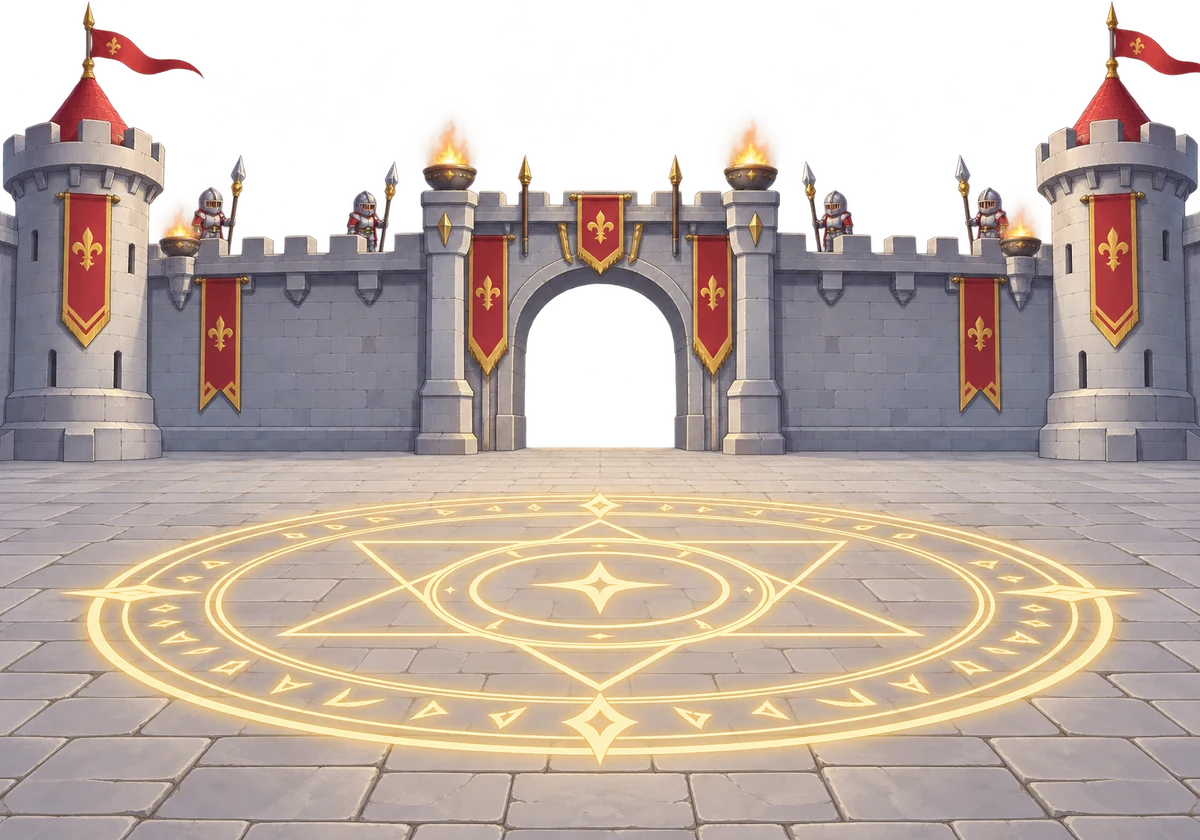
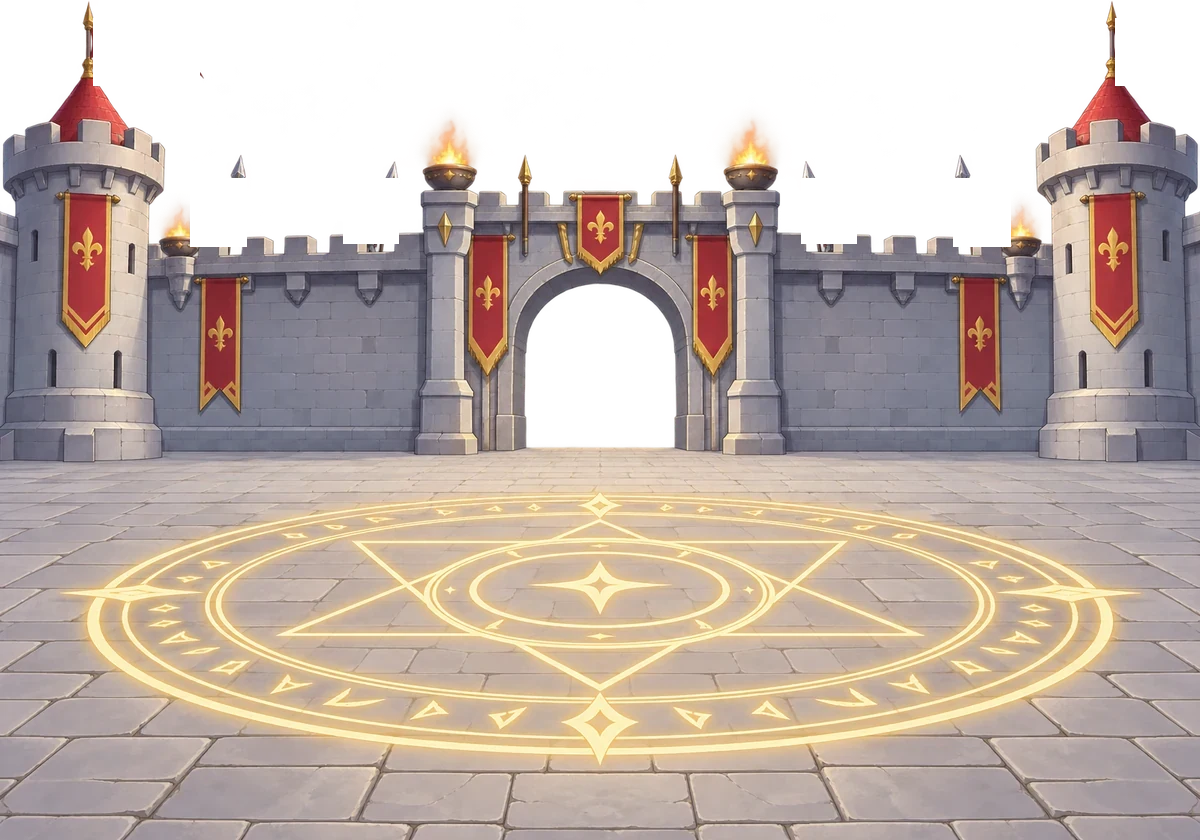
v3.66
Claude-Session: https://claude.ai/code/session_01XqngBYMHoapRK2JkBBQyW5

diff --git a/index.html b/index.html
@@ -1284,7 +1284,7 @@ img.elico{height:1.2em;vertical-align:-.25em}
 </style>
 </head>
 <body>
-<div id="dqload"><div class="ldbg"></div><div class="ldsh"></div><div class="ldver">v3.65</div>
+<div id="dqload"><div class="ldbg"></div><div class="ldsh"></div><div class="ldver">v3.66</div>
 <div class="ldlogo"><div class="l1">ผู้กล้าแห่ง</div><div class="l2"><span data-t="ดันเจี้ยน">ดันเจี้ยน</span><br><span data-t="ไร้สิ้นสุด">ไร้สิ้นสุด</span></div></div>
 <div class="ldbot"><div class="ldbar"><div class="ldfill"></div><img class="ldrun" src="art/char_leo.webp" alt=""></div>
 <div class="ldtxt">กำลังเปิดประตูดันเจี้ยน…</div><div class="ldtap">✦ แตะเพื่อเริ่มผจญภัย ✦</div><div class="ldtip"></div></div></div>
@@ -3644,7 +3644,7 @@ if (typeof document !== 'undefined') (function(){
       <span class="chip">🪙 <b>${fmt(S.gold)}</b></span>
       <span class="chip"><span class="rune-dot" style="background:${r.color}"></span>${S.rune.lv?`${r.pct}% · ${S.rune.timer} ชั้น`:'ไม่มีรูน'}</span>
       ${S.books?`<span class="chip book" data-act="tab" data-t="skills">📘 <b>${S.books}</b></span>`:''}
-      ${S.phase!=='title'&&!S.over?`<span class="tbr"><button class="tbtn" data-act="rhelp" title="วิธีเล่น">❓</button><button class="tbtn" data-act="rset" title="ตั้งค่าเสียง">${uiIco('settings','⚙')}</button><button class="tbtn quit" data-act="rquit" ${battleView?'disabled':''}>ออกหอคอย</button></span>`:'<span class="proto">v3.65</span>'}</div>`;
+      ${S.phase!=='title'&&!S.over?`<span class="tbr"><button class="tbtn" data-act="rhelp" title="วิธีเล่น">❓</button><button class="tbtn" data-act="rset" title="ตั้งค่าเสียง">${uiIco('settings','⚙')}</button><button class="tbtn quit" data-act="rquit" ${battleView?'disabled':''}>ออกหอคอย</button></span>`:'<span class="proto">v3.66</span>'}</div>`;
   }
   let runSet=false, runQuit=false, runHelp=false;
   function runPop(){
@@ -3905,7 +3905,7 @@ if (typeof document !== 'undefined') (function(){
     if (on && !shown){ el.innerHTML=tkInner(); el.classList.remove('tkhide'); }
     else if (!on && shown){ el.classList.add('tkhide'); setTimeout(()=>{ if (el.classList.contains('tkhide')) el.innerHTML=''; },450); } },1000);
   /* ---------- 🔔 แจ้งเตือนเกมมีอัปเดต ---------- */
-  const GAME_VER='v3.65'; let updSkip='', updT=0;
+  const GAME_VER='v3.66'; let updSkip='', updT=0;
   function updCheck(){ if (location.protocol==='file:' || document.getElementById('updpop')) return; if (Date.now()-updT<60000) return; updT=Date.now();
     fetch('version.json?t='+Date.now(),{cache:'no-store'}).then(r=>r.ok?r.json():null).then(j=>{ if (!j||!j.v||j.v===GAME_VER||j.v===updSkip) return; updShow(j); }).catch(()=>{}); }
   function updShow(j){ const inRun=S&&S.phase&&S.phase!=='title'&&!S.over&&!hub, d=document.createElement('div'); d.id='updpop';
@@ -3993,7 +3993,7 @@ if (typeof document !== 'undefined') (function(){
       <div class="pbtns"><button class="choice" data-act="guideopen"><span>📚 ข้อมูลเกม</span><small>วิธีเล่นเริ่มต้น · บันทึกสถานะ · ทรัพยากร · เวลารีเซ็ต · อุปกรณ์ · ธาตุ · อาชีพ</small></button><button class="choice alt" data-act="tutreset"><span>📖 ดูวิธีเล่นอีกครั้ง</span><small>สอนเล่นทุกหน้าใหม่ตั้งแต่ต้น</small></button></div>
       ${typeof window.cloudHtml==='function'?window.cloudHtml():''}${window.__dqCloud&&window.__dqCloud.auth?'':saveHtml()}
       ${devHtml(m)}
-      <div class="pop-f" data-act="vertap">${window.__dqCloud&&window.__dqCloud.auth?'ข้อมูลเซฟอยู่ในบัญชีของคุณ':'ข้อมูลเซฟอยู่ในเบราว์เซอร์เครื่องนี้'} · v3.65<br>แตะนอกกรอบเพื่อปิด</div></div></div>`;
+      <div class="pop-f" data-act="vertap">${window.__dqCloud&&window.__dqCloud.auth?'ข้อมูลเซฟอยู่ในบัญชีของคุณ':'ข้อมูลเซฟอยู่ในเบราว์เซอร์เครื่องนี้'} · v3.66<br>แตะนอกกรอบเพื่อปิด</div></div></div>`;
   }
   function saveHtml(){
     const msg = saveMsg ? `<div class="svmsg">${saveMsg}</div>` : '';
@@ -4103,11 +4103,29 @@ if (typeof document !== 'undefined') (function(){
         x.fillStyle='#ffe27a'; x.globalAlpha=0.7+0.3*Math.sin(IB.t*4+j); x.font=`${Math.round(hh*0.09)}px sans-serif`; x.textAlign='center'; x.fillText('✦',rx,ry); } x.globalAlpha=1; }
     if (t==='l'){ for (let j=0;j<5;j++){ const an=IB.t*1.6+j*1.256+ph, rx=px+Math.cos(an)*hh*0.42, ry=feet-hh*0.5+Math.sin(an)*hh*0.22;
         x.fillStyle=j%2?'#ffd34d':skinsOf(id).l.col; x.globalAlpha=0.6+0.4*Math.sin(IB.t*5+j); x.beginPath(); x.arc(rx,ry,2.2,0,Math.PI*2); x.fill(); } x.globalAlpha=1; } }
-  const IDLE_READY = new Set(['idle_tower.webp','idle_wall.webp','idle_plaza.webp','idle_altar.webp','idle_soldier_tank.webp','idle_soldier_warrior.webp','idle_soldier_archer.webp','idle_soldier_mage.webp','idle_soldier_support.webp','idle_soldier_assassin.webp']); const iArt = f => IDLE_READY.has(f) ? 'art/'+f : null;
+  const IDLE_READY = new Set(['idle_tower.webp','idle_wall.webp','idle_plaza.webp','idle_plaza_fx.webp','idle_altar.webp','idle_soldier_tank.webp','idle_soldier_warrior.webp','idle_soldier_archer.webp','idle_soldier_mage.webp','idle_soldier_support.webp','idle_soldier_assassin.webp']); const iArt = f => IDLE_READY.has(f) ? 'art/'+f : null;
   const idleBand = st => BANDS[(st-1)%BANDS.length];
   const B_hasMini=B=>B.q.some(q=>q.mini)||B.mons.some(q=>q.mini&&q.hp>0);
   const IDLE_BART={};
   const plazaFile=()=>'idle_plaza.webp';
+  // ชิ้นส่วนขยับได้ของกำแพง (ตัดจากภาพเดิม) [sx,sy,w,h,ox,oy] พิกัดภาพกว้าง 1200
+  const PLZ_FX={f1:[0,0,107,68,93,18],f2:[109,0,85,68,1115,18],g1:[196,0,57,69,190,178],g2:[255,0,56,66,343,178],g3:[313,0,56,66,801,178],g4:[371,0,58,69,953,178]};
+  const PLZ_FIRE=[[452,150,1],[752,150,1],[181,230,.62],[1021,230,.62]];
+  function plazaFx(x,PG,W,t){ const fx=img(iArt('idle_plaza_fx.webp')), k=W/1200, Y=oy=>PG.y0+oy*k;
+    if (fx&&fx.complete&&fx.naturalWidth){
+      ['f1','f2'].forEach((f,j)=>{ const [sx,sy,w,h,ox,oy]=PLZ_FX[f]; for (let i=0;i<w;i+=2){ const dy=Math.sin(t*5.2-i*0.11+j)*(i/w)*4.5+Math.sin(t*2.3-i*0.05)*(i/w)*1.5; x.drawImage(fx,sx+i,sy,2,h,(ox+i)*k,Y(oy+dy),2*k+0.6,h*k); } });
+      ['g1','g2','g3','g4'].forEach((g,j)=>{ const [sx,sy,w,h,ox,oy]=PLZ_FX[g], br=1+0.03*Math.sin(t*2.1+j*1.7), sw=Math.sin(t*0.9+j*2.3)*0.7, look=Math.max(0,Math.sin(t*0.37+j*1.3)-0.92)*14;
+        x.drawImage(fx,sx,sy,w,h,(ox+sw+(j<2?look:-look)*0.05)*k,Y(oy)+h*k*(1-br),w*k,h*k*br); });
+    }
+    // เปลวไฟคบเพลิงบนกำแพง + แสงสะท้อน + ประกายไฟลอย
+    x.save(); x.globalCompositeOperation='lighter';
+    PLZ_FIRE.forEach(([fxp,fyp,sc],j)=>{ const cx=fxp*k, cy=Y(fyp), fl=0.75+0.25*Math.sin(t*11+j*3)*Math.sin(t*7.3+j), r=30*sc*k*1.6;
+      let g=x.createRadialGradient(cx,cy,0,cx,cy,r*2.2); g.addColorStop(0,`rgba(255,170,60,${0.32*fl})`); g.addColorStop(1,'rgba(255,120,30,0)'); x.fillStyle=g; x.beginPath(); x.arc(cx,cy,r*2.2,0,6.28); x.fill();
+      for (let q=0;q<3;q++){ const ph=t*(6+q)+j*2+q, hgt=(22+8*Math.sin(ph))*sc*k*1.4, wd=(9-q*2)*sc*k*1.4, ox=Math.sin(ph*0.7)*2*k;
+        const gg=x.createLinearGradient(0,cy+4*k,0,cy-hgt); gg.addColorStop(0,`rgba(255,${200-q*40},80,${0.55*fl})`); gg.addColorStop(1,'rgba(255,90,20,0)'); x.fillStyle=gg;
+        x.beginPath(); x.moveTo(cx-wd+ox*0.3,cy+4*k); x.quadraticCurveTo(cx-wd*0.8+ox,cy-hgt*0.5,cx+ox*1.6,cy-hgt); x.quadraticCurveTo(cx+wd*0.8+ox,cy-hgt*0.5,cx+wd+ox*0.3,cy+4*k); x.closePath(); x.fill(); }
+      for (let e=0;e<3;e++){ const ph=((t*0.7+e/3+j*0.21)%1), ex=cx+Math.sin(t*3+e*2+j)*6*k*sc, ey=cy-ph*60*k*sc*1.5; x.fillStyle=`rgba(255,200,90,${(1-ph)*0.9})`; x.beginPath(); x.arc(ex,ey,1.4,0,6.28); x.fill(); } });
+    x.restore(); }
   function plazaGeom(W,H){ const pa=img(iArt(plazaFile())); if (!(pa&&pa.complete&&pa.naturalWidth)) return null; const h=W*pa.naturalHeight/pa.naturalWidth, y0=H-218-0.55*h; return {pa,h,y0,wy:y0+0.27*h,base:y0+0.55*h}; }
   const idleMapKey=st=>{ const b=idleBand(st), M=HT_MAPS.find(x=>x.band===b.name); return M?M.key:'forest'; };
   const EL_RGB={fire:'255,138,61',water:'76,201,240',wood:'110,224,122',earth:'217,168,91',light:'255,226,122',dark:'176,123,255'};
@@ -4249,7 +4267,7 @@ if (typeof document !== 'undefined') (function(){
       x.restore(); x.strokeStyle=o.h2?'#ffd56a':'rgba(255,230,160,.7)'; x.lineWidth=1.6; if (!o.h2) x.setLineDash([3,2]); x.beginPath(); x.arc(bx,by,r,0,Math.PI*2); x.stroke(); x.setLineDash([]);
       if (!o.h2){ x.fillStyle='rgba(255,230,160,.95)'; x.font=`bold ${r+3}px sans-serif`; x.textAlign='center'; x.textBaseline='middle'; x.fillText('+',bx,by+1); x.textBaseline='alphabetic'; }
       IB.hits.push({x:bx-r-3,y:by-r-3,w:r*2+6,h:r*2+6,c:o.c,s:1,pri:1}); };
-    if (PG){ x.drawImage(PG.pa,0,PG.y0,W,PG.h); const ib=PG.y0+PG.h; if (ib<H){ const sw=PG.pa.naturalWidth, sh=PG.pa.naturalHeight, st=Math.round(sh*0.06); x.drawImage(PG.pa,0,sh-st,sw,st,0,ib-1,W,H-ib+1); } } idleCircle(x,cx,PG?PG.y0+0.74*PG.h:(yB+yF)/2-8,W*0.33,W*0.11,IB.t||0,!!PG);
+    if (PG){ x.drawImage(PG.pa,0,PG.y0,W,PG.h); plazaFx(x,PG,W,IB.t||0); const ib=PG.y0+PG.h; if (ib<H){ const sw=PG.pa.naturalWidth, sh=PG.pa.naturalHeight, st=Math.round(sh*0.06); x.drawImage(PG.pa,0,sh-st,sw,st,0,ib-1,W,H-ib+1); } } idleCircle(x,cx,PG?PG.y0+0.74*PG.h:(yB+yF)/2-8,W*0.33,W*0.11,IB.t||0,!!PG);
     [...slots.filter(o=>o.back),...slots.filter(o=>!o.back)].forEach(o=>{ drawAltar(o);
       if (o.on && o.h1){ const el=o.h1===ROOKIE?'light':(ALLCHARS[o.h1]&&ALLCHARS[o.h1].c.el); idleBeam(x,o,el,IB.t||0); }
       if (!o.on){ x.font='14px sans-serif'; x.textAlign='center'; x.fillStyle='#fff'; x.fillText('🔒',o.ax,o.top-4); return; }

diff --git a/dev/sim/wf.py b/dev/sim/wf.py
@@ -1,0 +1,13 @@
+from playwright.sync_api import sync_playwright
+import time,re
+INIT=re.search(r'INIT="(.*?)"\n',open('lf.py').read()).group(1)
+with sync_playwright() as p:
+    b=p.chromium.launch(executable_path='/usr/bin/google-chrome', args=['--no-sandbox','--mute-audio']); pg=b.new_page(viewport={'width':390,'height':760},device_scale_factor=3); errs=[]; pg.on('pageerror',lambda e: errs.append(str(e))); pg.add_init_script(INIT)
+    pg.goto('file:///home/claude/game/index.html'); time.sleep(1.5)
+    for i in range(3):
+        pg.evaluate("()=>{ const m=loadMeta(); m.name='ทดสอบ'; m.tut={home:1}; m.login={last:dayKey(),streak:1}; m.mail={got:['gift_bug_2611','gift_leo_2611','gift_d3_2811'],dyn:[]}; m.idle.st=6; m.idle.sub=2; storeMeta(m); }"); time.sleep(.8)
+        pg.goto(f'file:///home/claude/game/index.html?w{i}'); time.sleep(3)
+        if pg.evaluate("()=>loadMeta().name")=='ทดสอบ': break
+    time.sleep(3)
+    for f in range(24): pg.screenshot(path=f'/tmp/wf{f}.png', clip={'x':0,'y':400,'width':390,'height':110}); time.sleep(0.08)
+    print(errs[:3]); b.close()

diff --git a/DEV_NOTES.md b/DEV_NOTES.md
@@ -1,6 +1,6 @@
 # DEV NOTES — ผู้กล้าแห่งดันเจี้ยนไร้สิ้นสุด
 
-บันทึกสำหรับ Claude ในแชทใหม่ อ่านไฟล์นี้ก่อนเริ่มงานทุกครั้ง (อัปเดตล่าสุด: v3.65, 27 พ.ย. 2026)
+บันทึกสำหรับ Claude ในแชทใหม่ อ่านไฟล์นี้ก่อนเริ่มงานทุกครั้ง (อัปเดตล่าสุด: v3.66, 27 พ.ย. 2026)
 
 ## วิธีทำงานกับเจ้าของเกม
 - ตอบเป็นภาษาไทยเสมอ
@@ -99,3 +99,9 @@
 - ภาพ `art/egg_t0/1/2.webp` = ไข่เดิมเปลี่ยนสีส่วนม่วงเป็น เขียว/ฟ้า/แดงส้ม (PIL HSV) · `eggIco(t,big)`
 - กระเป๋าแท็บไอเทมมีไข่ 3 แถว ปุ่ม "เปิดไข่" act `eggopen` (ใน hubAct) → `eggOpen` → `eggPopHtml` (สั่น 1.3s → แฟลช → แสงหมุน + เผยตัว) · act eggok/eggsee
 - จดหมาย rw รองรับ `sktix`, `rtix`, `egg:[n0,n1,n2]` · ของขวัญ `gift_d3_2811`: ตั๋วสกิน 10 ตั๋วเรลิก 10 ไข่หายาก 1
+
+## v3.66 — กำแพงมีชีวิต
+- ตัดธง 2 ผืน + ยาม 4 คน ออกจาก `idle_plaza.webp` ไปไว้ใน `idle_plaza_fx.webp` (PLZ_FX = [sx,sy,w,h,ox,oy] พิกัดภาพกว้าง 1200) · `plazaFx`: ธงโบกด้วยการวาดเป็นแถบ 2px เลื่อนตามคลื่น · ยามหายใจ (ยืดแนวตั้ง 3% ยึดที่เท้า) + โยกเล็กน้อย · เปลวไฟ/แสง/ประกายไฟที่คบเพลิง 4 จุด `PLZ_FIRE`
+- ภาพต้นฉบับก่อนตัดอยู่ใน Scenario asset_Losh3h7PQgNudRoREYGxXQ3z
+## นโยบายของขวัญ (ถึง OBT)
+- ของขวัญทั้งหมดอยู่ใน `MAIL` (ในโค้ด ไม่มีวันหมดอายุ) → ผู้เล่นใหม่ได้ครบทุกชิ้น · ห้ามลบรายการเก่าหรือใส่เงื่อนไขวันที่จนกว่าจะเปิด OBT
